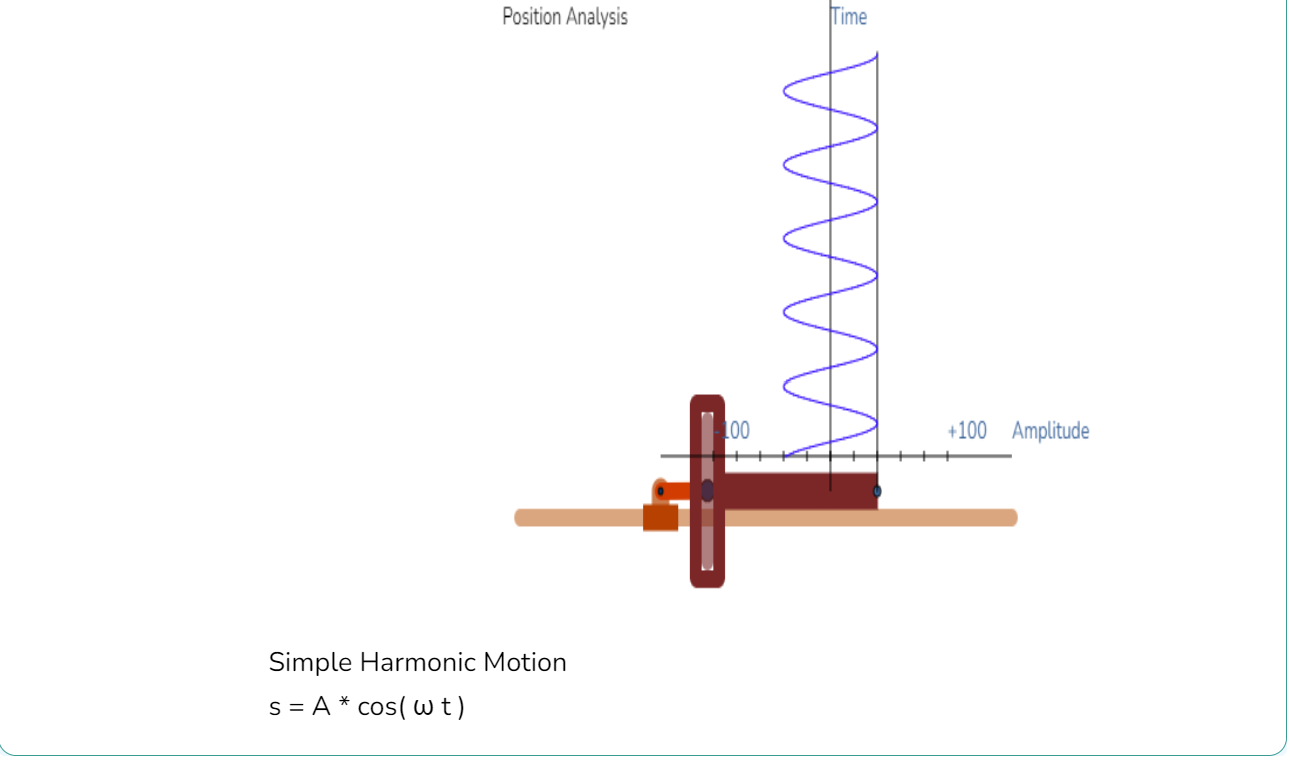
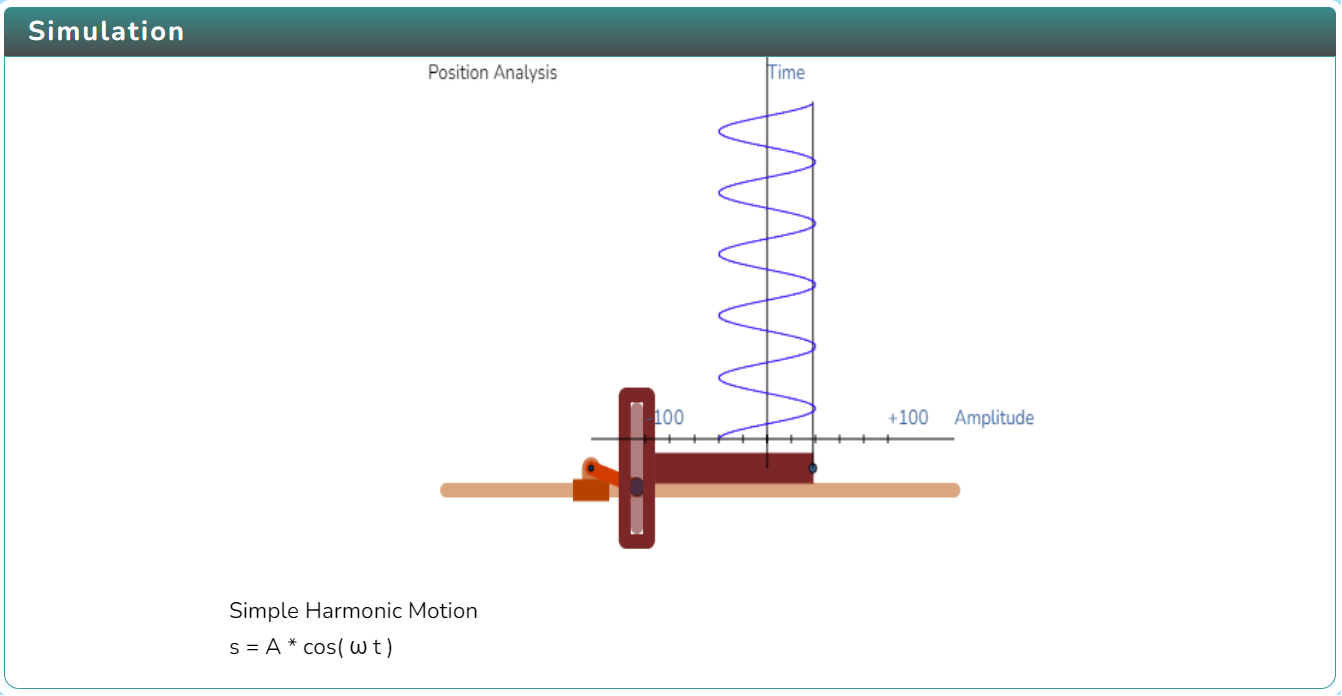
Responsive Simulator Added

Changed region(s): [[0.0, 0.0, 1.0, 1.0], [0.155, 0.8448, 0.4341, 0.9353]]

diff --git a/experiment/simulation/css/query.css b/experiment/simulation/css/query.css
@@ -17,11 +17,11 @@ em:current font size
     margin-left: 270px;
   }
   #commentboxleft {
-    left: 150px;
+    /* left: 150px; */
     font-size: 16px;
   }
   #commentboxright {
-    left: 405px;
+    /* left: 405px; */
     font-size: 16px;
   }
   #variables {
@@ -59,7 +59,7 @@ em:current font size
     display: block;
     width: 100%;
     height: 100%;
-    margin-left: 230px;
+    /* margin-left: 230px; */
   }
   .div__control img {
     width: 3rem;
@@ -67,12 +67,12 @@ em:current font size
   }
 
   #commentboxleft {
-    left: 120px;
+    /* left: 120px; */
     font-size: 16px;
   }
 
   #commentboxright {
-    left: 300px;
+    /* left: 300px; */
     font-size: 16px;
   }
   #variables {
@@ -180,17 +180,17 @@ em:current font size
     display: block;
     width: 100%;
     height: 100%;
-    margin-left: 35px;
+    /* margin-left: 35px; */
     border: none;
     border-top: 1px solid rgba(177, 176, 176, 0.855);
   }
   #commentboxleft {
-    left: 40px;
+    /* left: 40px; */
     font-size: 16px;
   }
 
   #commentboxright {
-    left: 150px;
+    /* left: 150px; */
     font-size: 16px;
   }
   #variables {
@@ -218,7 +218,7 @@ em:current font size
   }
   .logo-div {
     width: 8.5rem;
-    padding: 0.8rem 0 0.8rem 3.3rem;
+    /* padding: 0.8rem 0 0.8rem 3.3rem; */
   }
   .main__task-div:nth-child(4) {
     margin-bottom: 6rem;
@@ -237,12 +237,12 @@ em:current font size
     border-top: 1px solid rgba(177, 176, 176, 0.855);
   }
   #commentboxleft {
-    left: 50px;
+    /* left: 50px; */
     font-size: 16px;
   }
 
   #commentboxright {
-    left: 200px;
+    /* left: 200px; */
     font-size: 16px;
   }
   #variables {
@@ -255,16 +255,19 @@ em:current font size
 /* **************************** */
 @media (max-width: 34em) {
   .container {
-    padding: 0.5rem;
+    /* padding: 0.5rem; */
     gap: 1rem;
   }
   .title-div-container {
-    padding: 0.5rem 0.5rem 0rem 0.5rem;
+    /* padding: 0.5rem 0.5rem 0rem 0.5rem; */
+  }
+  .logo-div {
+    width: 4rem;
   }
   .title-div h1 {
-    padding: 0.2rem;
+    /* padding: 0.2rem; */
 
-    font-size: 1.6rem;
+    font-size: 1.8rem;
     /* text-align: center; */
   }
   .div__control {
@@ -299,7 +302,7 @@ em:current font size
     display: block;
     width: 100%;
     height: 100%;
-    margin-left: 15px;
+    /* margin-left: 15px; */
     border: none;
     border-top: 1px solid rgba(177, 176, 176, 0.855);
     /* background-color: red; */
@@ -312,12 +315,12 @@ em:current font size
     font-size: 1rem;
   }
   #commentboxleft {
-    left: 10px;
+    /* left: 10px; */
     font-size: 16px;
   }
 
   #commentboxright {
-    left: 65px;
+    /* left: 65px; */
     font-size: 16px;
   }
   #variables {
@@ -332,6 +335,9 @@ em:current font size
   }
   .tool-list span {
     font-size: 1.3rem;
+  }
+  canvas {
+    width: 100%;
   }
 }
 /* 

diff --git a/experiment/simulation/js/new-script.js b/experiment/simulation/js/new-script.js
@@ -243,9 +243,9 @@ function draw() {
   q = pointtrans(q, trans);
   ctx.save();
   ctx.lineWidth = 1;
-  ctx.font = "14px 'Nunito', sans-serif";
-  ctx.fillStyle = "#000000";
-  ctx.fillText("Position Analysis", 15, 15);
+  // ctx.font = "20px 'Nunito', sans-serif";
+  // ctx.fillStyle = "#000000";
+  // ctx.fillText("Position Analysis", 15, 35);
   ctx.restore();
   //ptx.push(p.xcoord);
   //pty.push(p.ycoord);
@@ -379,20 +379,20 @@ function graph(context) {
 // 0 : Single comment box, 1 : Left comment box, 2 : Right comment box
 function printcomment(commenttext, commentloc) {
   if (commentloc == 0) {
-    document.getElementById("commentboxright").style.visibility = "hidden";
-    document.getElementById("commentboxleft").style.width = "570px";
+    document.getElementById("commentboxright").style.display = "none";
+    // document.getElementById("commentboxleft").style.width = "570px";
     document.getElementById("commentboxleft").innerHTML = commenttext;
   } else if (commentloc == 1) {
-    document.getElementById("commentboxright").style.visibility = "visible";
-    document.getElementById("commentboxleft").style.width = "285px";
+    document.getElementById("commentboxright").style.display = "block";
+    // document.getElementById("commentboxleft").style.width = "285px";
     document.getElementById("commentboxleft").innerHTML = commenttext;
   } else if (commentloc == 2) {
-    document.getElementById("commentboxright").style.visibility = "visible";
-    document.getElementById("commentboxleft").style.width = "285px";
+    document.getElementById("commentboxright").style.display = "block";
+    // document.getElementById("commentboxleft").style.width = "285px";
     document.getElementById("commentboxright").innerHTML = commenttext;
   } else {
-    document.getElementById("commentboxright").style.visibility = "hidden";
-    document.getElementById("commentboxleft").style.width = "570px";
+    document.getElementById("commentboxright").style.display = "none";
+    // document.getElementById("commentboxleft").style.width = "570px";
     document.getElementById("commentboxleft").innerHTML =
       "<center>please report this issue to adityaraman@gmail.com</center>";
     // ignore use of deprecated tag <center> . Code is executed only if printcomment function receives inappropriate commentloc value

diff --git a/experiment/simulation/css/style.css b/experiment/simulation/css/style.css
@@ -214,6 +214,10 @@ h1 {
 /* ************simulation*********** */
 
 /* canvas */
+.exp-title {
+  grid-column: 1/-1;
+  justify-self: center;
+}
 .canvas__div {
   width: 100%;
   border: 1px solid var(--clr-title-background);
@@ -231,32 +235,41 @@ h1 {
   display: flex;
   width: 100%;
   height: 420px;
+  flex-direction: column;
 }
 #canvas {
   border-left: 1px solid rgba(177, 176, 176, 0.855);
   width: 100%;
   height: 100%;
 }
+.comments {
+  grid-column: 1/-1;
+  display: grid;
+  grid-template-columns: repeat(2, 1fr);
+}
 
 div#commentboxleft {
+  /* grid-column: 1/-1; */
   flex: 1;
-  position: absolute;
+  /* position: absolute; */
 
-  top: 390px;
-  height: 65px;
-  width: 285px;
-  text-align: left;
+  /* top: 390px; */
+  /* height: 65px; */
+  /* width: 285px; */
+  /* text-align: left; */
+  justify-self: center;
   font-size: 15px;
   font-family: "Nunito", sans-serif;
 }
 
 div#commentboxright {
-  position: absolute;
+  justify-self: center;
+  /* position: absolute; */
 
-  top: 390px;
+  /* top: 390px; */
   height: 65px;
-  width: 285px;
-  text-align: right;
+  /* width: 285px; */
+  /* text-align: right; */
 
   font-family: "Nunito", sans-serif;
 }

diff --git a/experiment/simulation/index.html b/experiment/simulation/index.html
@@ -129,12 +129,15 @@
             <div class="canvas__div">
             
                
+              <p class="exp-title">Position Analysis</p>
               <div id="canvas-container">
                 <canvas id="simscreen" height="430px" width="550px"class="canvas"></canvas>
+                
+              </div>
+              <div class="comments">
                 <div id="commentboxleft"></div>
                 <div id="commentboxright"></div>
               </div>
-              
             </div>
           </div>
           <div id="variables" class="main__task-div">

diff --git a/experiment/procedure.md b/experiment/procedure.md
@@ -1,20 +1,20 @@
 ### Procedure
 
 <div style="text-align:left">
-  Click on the simulation icon    <img src="images/simulation.png" alt="Alt text" style="height:40px; width:40px;">  to view the simulation screen. 
+  Click on the Simulation icon    <img src="images/simulation.png" alt="Alt text" style="height:80px; width:80px;">  to view the simulation screen. 
 
    ![Alt text](images/procedure_1a.png)
    
-   In order to view the variable section click on the variable icon. <img src="images/var1.png" alt="Alt text" style="height:40px; width:40px;">
+   In order to view the variable section click on the Variable icon. <img src="images/var1.png" alt="Alt text" style="height:80px; width:80px;">
 
    ![Alt text](images/var2.png)
 
-   Click on play icon <img src="images/play1.png" alt="Alt text" style="height:40px; width:40px;"> to run the simulation and click on pause icon <img src="images/pause.png" alt="Alt text" style="height:40px; width:40px;"> to stop it.
+   Click on Play icon <img src="images/play1.png" alt="Alt text" style="height:80px; width:80px;"> to run the simulation and click on Pause icon <img src="images/pause.png" alt="Alt text" style="height:80px; width:80px;"> to stop it.
 
-  Click on the Rotate icon  <img src="images/rotate clockwise.png" alt="Alt text" style="height:40px; width:40px;"> to change the direction of rotation.
+  Click on the Rotate icon  <img src="images/rotate clockwise.png" alt="Alt text" style="height:80px; width:80px;"> to change the direction of rotation.
    
 
-   Click on the graph icon  <img src="images/graph1.png" alt="Alt text" style="height:40px; width:40px;"> to view the graph.    
+   Click on the Graph icon  <img src="images/graph1.png" alt="Alt text" style="height:80px; width:80px;"> to view the graph.    
    ![Alt text](images/graph2.png)
 
    
